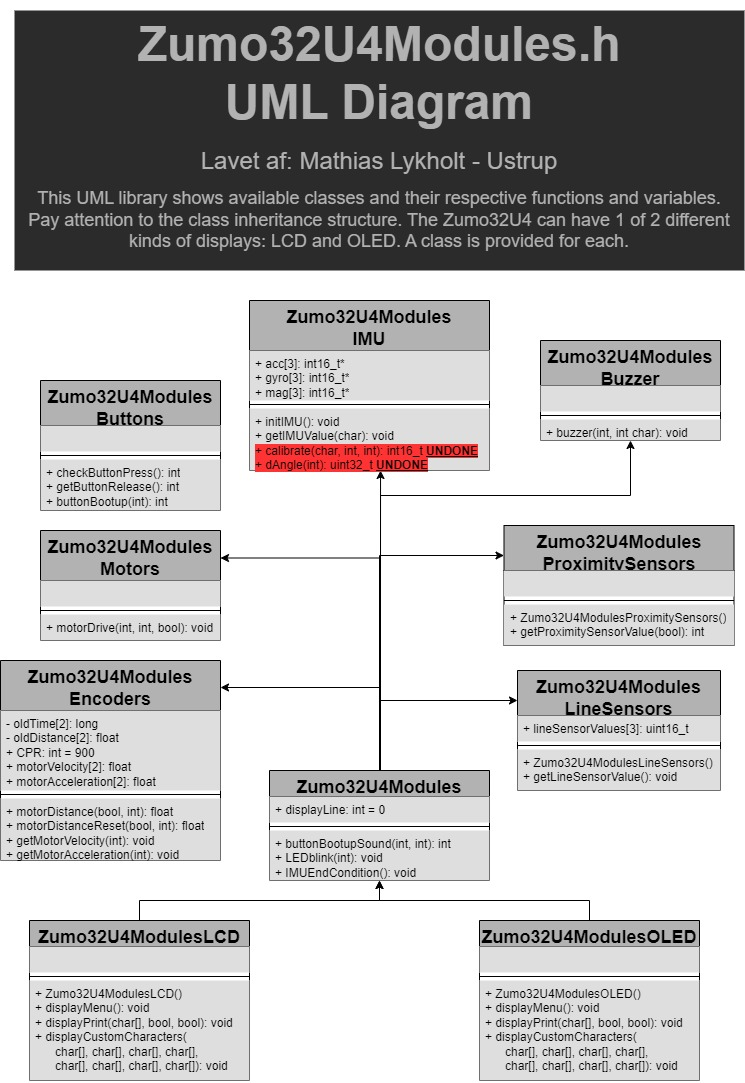
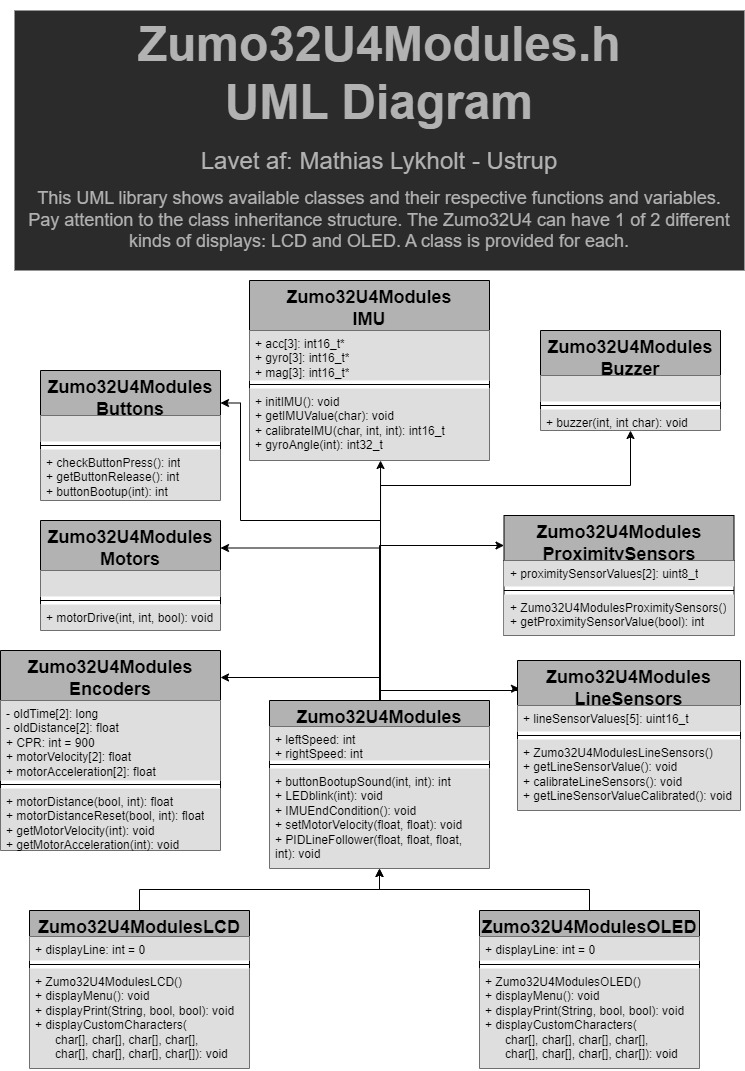
Add files via upload

diff --git a/Zumo32U4Modules.cpp b/Zumo32U4Modules.cpp
@@ -82,16 +82,22 @@ void Zumo32U4ModulesEncoders::getMotorAcceleration() {
   Zumo32U4ModulesEncoders::oldTime[1] = millis(); // Update millis() returns time in milliseconds.
 }
 
-Zumo32U4ModulesLineSensors::Zumo32U4ModulesLineSensors() { Zumo32U4LineSensors::initThreeSensors(); }
+Zumo32U4ModulesLineSensors::Zumo32U4ModulesLineSensors() { Zumo32U4LineSensors::initFiveSensors(); }
 
 void Zumo32U4ModulesLineSensors::getLineSensorValue() { Zumo32U4LineSensors::read(lineSensorValues, QTR_EMITTERS_ON); }
 
+void Zumo32U4ModulesLineSensors::calibrateLineSensors() { Zumo32U4LineSensors::calibrate(QTR_EMITTERS_ON); }
+
+void Zumo32U4ModulesLineSensors::getLineSensorValueCalibrated() { Zumo32U4LineSensors::readCalibrated(lineSensorValues, QTR_EMITTERS_ON); }
+
+//int Zumo32U4ModulesLineSensors::readLineLocation() { Zumo32U4LineSensors::readLine(lineSensorValues, QTR_EMITTERS_ON, false); }
+
 Zumo32U4ModulesProximitySensors::Zumo32U4ModulesProximitySensors() { Zumo32U4ProximitySensors::initThreeSensors(); }
 
-int Zumo32U4ModulesProximitySensors::getProximitySensorValue(bool index) {
+void Zumo32U4ModulesProximitySensors::getProximitySensorValue() {
   Zumo32U4ProximitySensors::read();
-  if (index == true) { return Zumo32U4ProximitySensors::countsFrontWithLeftLeds(); }
-  if (index == false) { return Zumo32U4ProximitySensors::countsFrontWithRightLeds(); }
+  proximitySensorValues[0] = Zumo32U4ProximitySensors::countsFrontWithLeftLeds();
+  proximitySensorValues[1] = Zumo32U4ProximitySensors::countsFrontWithRightLeds();
 }
 
 void Zumo32U4ModulesIMU::initIMU() {
@@ -118,7 +124,7 @@ int16_t Zumo32U4ModulesIMU::getIMUvalue(char m_a_g='_') {
   }
 }
 
-int16_t Zumo32U4ModulesIMU::calibrate(char m_a_g, int index, int iterations=1000) {
+int16_t Zumo32U4ModulesIMU::calibrateIMU(char m_a_g, int index, int iterations=1000) {
   int32_t total = 0; // Sum of read values
   switch(m_a_g) {
     case 'm':
@@ -145,7 +151,7 @@ int16_t Zumo32U4ModulesIMU::calibrate(char m_a_g, int index, int iterations=1000
   return total / iterations; // Average of read values is returned
 }
 
-int32_t Zumo32U4ModulesIMU::dAngle(int index) {
+int32_t Zumo32U4ModulesIMU::gyroAngle(int index) {
   Zumo32U4IMU::readGyro(); // Only gyrometer is needed for Zumo32U4 angle readings
   int16_t turnRate = *gyro[index] - gyroOffset;
   uint16_t m = micros(); // "New time"
@@ -172,16 +178,16 @@ void accelerometerMovement(float v_0, float s_0) {
 }
 */
 
-/*int16_t gyrometerCompas() {
+/*int16_t Zumo32U4ModulesIMU::magCompas() {
 
-  float heading = -1 * (atan2(*zumoBot.mag[0], *zumoBot.mag[1]) * 180) / M_PI;
-  heading += 4.91;
+  float heading = -1 * atan2(*Zumo32U4ModulesIMU::mag[0], *Zumo32U4ModulesIMU::mag[1]) * 180 / M_PI;
+  //heading += 4.91;
   if (heading > 360) { heading = 360; }
   return heading;
-  /*int16_t x = map(*zumoBot.mag[0], -12000, -6000, -400, 400);
-  int16_t y = map(*zumoBot.mag[1], 6000, 12000, -400, 400);
+  int16_t x = map(*Zumo32U4ModulesIMU::mag[0], -12000, -6000, -400, 400);
+  int16_t y = map(*Zumo32U4ModulesIMU::mag[1], 6000, 12000, -400, 400);
 
-  zumoBot.displayPrint((String)x + "\t" + (String)y, true);
+  //zumoBot.displayPrint((String)x + "\t" + (String)y, true);
 
   if (y > 0) {
     return 90 - atan2(x, y) * 180 / PI;
@@ -226,17 +232,57 @@ void Zumo32U4Modules::LEDblink(int interval) {
 }
 
 void Zumo32U4Modules::IMUEndCondition() {
-  if (accDataReady() == false) { // If accelerometer is not initialized:
-    Wire.begin();
-    Zumo32U4IMU::init();          // "Activate" accelerometer a, magnetometer m, gyrometer g på x, y & z-akse
-    Zumo32U4IMU::enableDefault(); // Needed when connected via. USB (don't know why)
-    Serial.println("IMU initialized!");
-  }
   Zumo32U4IMU::readAcc();    // Only accelerometer is needed for readings of Zumo32U4 gravitaional pull
-  if (a.z < 0 || a.z >= 20000) {    // If (Zumo32U4 is turned upside down || lifted up)
+  if (a.z < 0) {    // If (Zumo32U4 is turned upside down)
     Zumo32U4ModulesMotors::setSpeeds(0, 0);   // Motors must stop when program stops
     exit(0); // Stop the program in its entierty
   }
+}
+
+void Zumo32U4Modules::setMotorVelocity(float velocityLeft=0, float velocityRight=0) {
+  Zumo32U4ModulesEncoders::getMotorAcceleration(); // get motor acceleraion also updates motor velocity. 
+  float velocityLeftError = velocityLeft - Zumo32U4ModulesEncoders::motorVelocity[0];
+  float velocityRightError = velocityRight - Zumo32U4ModulesEncoders::motorVelocity[1];
+  leftSpeed += velocityLeftError;
+  rightSpeed += velocityRightError;
+  if (leftSpeed > 400) { leftSpeed = 400; }
+  if (rightSpeed > 400) { rightSpeed = 400; }
+  Zumo32U4ModulesMotors::motorDrive(leftSpeed, rightSpeed);
+}
+
+void Zumo32U4Modules::PIDLineFollower(float kp, float ki, float kd, int speed) {
+  float integral = 0;
+  float error = 0;
+  float lastError = 0;
+
+  Zumo32U4ModulesProximitySensors::getProximitySensorValue(); // Update proximity
+  int proximity = Zumo32U4ModulesProximitySensors::proximitySensorValues[0] + 
+                  Zumo32U4ModulesProximitySensors::proximitySensorValues[1]; // Check if condition met from the get go
+  while (proximity != 12) { // Failsafe 1 in case Zumo32U4 goes haywire
+    Zumo32U4ModulesProximitySensors::getProximitySensorValue(); // Update proximity
+    proximity = Zumo32U4ModulesProximitySensors::proximitySensorValues[0] + 
+                Zumo32U4ModulesProximitySensors::proximitySensorValues[1]; 
+    Zumo32U4ModulesLineSensors::getLineSensorValue();
+    if (lineSensorValues[0] < 300) {  // If left side lineSensor value is low:
+      Zumo32U4Motors::setSpeeds(-60, 200); // Turn left by 90 degrees (roughly speaking)
+      delay(650);
+    }
+    else if (lineSensorValues[4] < 300) { // If right side lineSensor value is low:
+      Zumo32U4Motors::setSpeeds(200, -60); // Turn right by 90 degrees (roughly speaking)
+      delay(650);
+    }
+    error = lineSensorValues[1] - lineSensorValues[3]; // Ideally, the Zumo32U4 will drive in between the (white) line
+    float pFix = error * kp;
+    integral += error;
+    float iFix = integral * ki;
+    int derivative = error - lastError;
+    lastError = error;
+    float dFix = derivative * kd;
+    int correction = pFix + iFix + dFix;
+    Zumo32U4ModulesMotors::motorDrive(speed+correction, speed-correction); // Apply feedback-mechanism to Zumo32U4 motors
+    Zumo32U4Modules::IMUEndCondition(); // Failsafe 2 in case Zumo32U4 goes haywire
+  }
+  Zumo32U4Motors::setSpeeds(0, 0); // Stop Zumo32U4 Motors
 }
 
 Zumo32U4ModulesLCD::Zumo32U4ModulesLCD() {
@@ -265,13 +311,13 @@ void Zumo32U4ModulesLCD::displayMenu() {
 void Zumo32U4ModulesLCD::displayPrint(String input, bool clear=false, bool newLine=true) {
   if (clear==true) {  // Clear display?
     Zumo32U4LCD::clear();
-    Zumo32U4Modules::displayLine = 0;
+    Zumo32U4ModulesLCD::displayLine = 0;
   }
   if (input.length() == 0) { Zumo32U4LCD::print(input[0]); } // If {input} == "\0" or {input} == "", then "\0" is printed to display
   else { Zumo32U4LCD::print(input); }
   if (newLine==true) { // Should the next displayPrint(char input[]) be printed on the next line?
-    Zumo32U4Modules::displayLine++;
-    Zumo32U4LCD::gotoXY(0, Zumo32U4Modules::displayLine);
+    Zumo32U4ModulesLCD::displayLine++;
+    Zumo32U4LCD::gotoXY(0, Zumo32U4ModulesLCD::displayLine);
   }
 }
 
@@ -318,15 +364,15 @@ void Zumo32U4ModulesOLED::displayMenu() {
 void Zumo32U4ModulesOLED::displayPrint(String input, bool clear=false, bool newLine=true) {
   if (clear==true) {  // Clear display?
     Zumo32U4OLED::clear();
-    Zumo32U4Modules::displayLine = 0;
+    Zumo32U4ModulesOLED::displayLine = 0;
   }
 
   if (input.length() == 0) { Zumo32U4OLED::print(input[0]); } // If {input} == "\0" or {input} == "", then "\0" is printed to display
   else { Zumo32U4OLED::print(input); }
 
   if (newLine==true) { // Should the next displayPrint(char input[]) be printed on the next line?
-    Zumo32U4Modules::displayLine++;
-    Zumo32U4OLED::gotoXY(0, Zumo32U4Modules::displayLine);
+    Zumo32U4ModulesOLED::displayLine++;
+    Zumo32U4OLED::gotoXY(0, Zumo32U4ModulesOLED::displayLine);
   }
 }
 

diff --git a/Zumo32U4Modules.h b/Zumo32U4Modules.h
@@ -9,8 +9,8 @@
 
 /*! \brief This class represents the Zumo32U4 buttons A, B & C */
 class Zumo32U4ModulesButtons : protected Zumo32U4ButtonA, 
-                                    protected Zumo32U4ButtonB,
-                                    protected Zumo32U4ButtonC { 
+                               protected Zumo32U4ButtonB,
+                               protected Zumo32U4ButtonC { 
 public: 
 /*! Check button press state.
  *  NONE=0; A=1; B=2; A+B=3; C=4; A+C=5; B+C=6; A+B+C=7; */
@@ -90,13 +90,19 @@ public:
      Class constructor initializes LineSensors from the get go */
 class Zumo32U4ModulesLineSensors : protected Zumo32U4LineSensors {
 public:
-  uint16_t lineSensorValues[3];
+  uint16_t lineSensorValues[5];
 
-  /*! Assume Zumo32U4 has 3 ineSensors */
+  /*! Assume Zumo32U4 has 5 lineSensors */
   Zumo32U4ModulesLineSensors();
 
   /*! Read lineSensor. Afterwards, access these values using lineSensorValues[]. */
   void getLineSensorValue();
+
+  /*! Calibrate lineSensor. Afterwards, the function getLineSensorValueCalibrated() can be executed. */
+  void calibrateLineSensors();
+
+  /*! Calibrate lineSensor. Afterwards, the function getLineSensorValueCalibrated() can be executed. */
+  void getLineSensorValueCalibrated();
 };
 
 #define Zumo32U4ModulesProximitySensors_h
@@ -106,11 +112,13 @@ public:
      Class constructor initializes Protimity Sensors from the get to*/
 class Zumo32U4ModulesProximitySensors : protected Zumo32U4ProximitySensors {
 public:
+  uint8_t proximitySensorValues[2];
+
   /*! Assume Zumo32U4 has 3 Proximity Sensors */
   Zumo32U4ModulesProximitySensors();
 
-  /*! Read proximitySensor. Get right proximitySensor if {index} == false and left if {index} == true */
-  int getProximitySensorValue(bool index);
+  /*! Read proximitySensor. Proximity Sensor values are stored in uint8_t proximitySensorValues[2] */
+  void getProximitySensorValue();
 };
 
 #define Zumo32U4ModulesIMU_h
@@ -140,10 +148,11 @@ public:
   int16_t getIMUvalue(char m_a_g='_');
 
   /*! Needed to get actual angle of Zumo32U4 in setup(). */
-  int16_t calibrate(char m_a_g, int index, int iterations=1000); // EXPERIMENTAL
+  int16_t calibrateIMU(char m_a_g, int index, int iterations=1000);
 
-  /*! After calibrate(char m_a_g, int index, int iterations) has been executed, get actual angle using gyrometer */
-  int32_t dAngle(int index); // EXPERIMENTAL
+  /*! After calibrate(char m_a_g, int index, int iterations) has been executed, get actual angle using gyrometer. 
+   *  Make sure to run this function in a loop without any forced delays like delay() as this will cause errors in angle calculations */
+  int32_t gyroAngle(int index);
 };
 
 #define Zumo32U4Modules_h
@@ -159,7 +168,7 @@ class Zumo32U4Modules : public Zumo32U4ModulesButtons,
                         public Zumo32U4ModulesProximitySensors,
                         public Zumo32U4ModulesIMU {
 public:
-  int displayLine = 0; // Exclusively used for class Zumo32U4ModulesLCD & class Zumo32U4ModulesOLED
+  int leftSpeed=0, rightSpeed=0; // Used for the function setMotorvelocity(float velocityLeft=0, float velocityRight=0)
 
   /*! Wait until either A, B or C has been pressed and released.
    Afterwards, {windup} ms of a "fancy delay" follows.
@@ -174,6 +183,12 @@ public:
 
   /*! End the program if either Zumo is lifted up or turned upside down */
   void IMUEndCondition();
+
+  /*! Make the motors drive at a specific velocity. Makes for a smooth acceleration.
+   * Velocity should be set between 0cm/s (motor stop) and 65cm/s (motor full speed) */
+  void setMotorVelocity(float velocityLeft=0, float velocityRight=0);
+
+  void PIDLineFollower(float P, float I, float D, int speed);
 };
 
 #define Zumo32U4ModulesLCD_h
@@ -183,6 +198,8 @@ public:
  * The LCD-display is limited to 8x2 dimensions, meaning only 16 signs can be displayed once at a time. */
 class Zumo32U4ModulesLCD : public Zumo32U4Modules, protected Zumo32U4LCD {
 public:
+  int displayLine = 0; // Set specific display line if we're feeling fancy
+
   /*! Equivalent to a "Hello World!" displayed on the LCD. */
   Zumo32U4ModulesLCD();
 
@@ -207,6 +224,8 @@ public:
  * Furthermore, the OLED-display is capable of making vfx graphics [WORK IN PROGRESS] */
 class Zumo32U4ModulesOLED : public Zumo32U4Modules, protected Zumo32U4OLED {
 public:
+  int displayLine = 0; // Set specific display line if we're feeling fancy
+
   /*! Equivalent to a "Hello World!" displayed on the LCD. */
   Zumo32U4ModulesOLED();
 
@@ -223,28 +242,13 @@ public:
                                char custom5[]={}, char custom6[]={}, char custom7[]={}, char custom8[]={});
 };
 
-// This character is a back arrow pointing to the left.
-const char backArrow[] PROGMEM = {0, 2, 1, 5, 9, 30, 8, 4};
-
-// This character is a back arrow pointing to the right.
-const char backArrowReverse[] PROGMEM = {0, 8, 16, 20, 18, 15, 2, 4};
-
-// This character is two chevrons pointing up.
-const char forwardArrows[] PROGMEM = {0, 4, 10, 17, 4, 10, 17, 0};
-
-// This character is two chevrons pointing down.
-const char reverseArrows[] PROGMEM = {0, 17, 10, 4, 17, 10, 4, 0};
-
-// This character is two solid arrows pointing up.
-const char forwardArrowsSolid[] PROGMEM = {0, 4, 14, 31, 4, 14, 31, 0};
-
-// This character is two solid arrows pointing down.
-const char reverseArrowsSolid[] PROGMEM = {0, 31, 14, 4, 31, 14, 4, 0};
-
-// This character is a solid arrow pointing to the right.
-const char rightArrow[] PROGMEM = {8, 12, 14, 15, 14, 12, 8, 0};
-
-// This character is a solid arrow pointing to the left.
-const char leftArrow[] PROGMEM = {2, 6, 14, 30, 14, 6, 2, 0};
+const char backArrow[] PROGMEM = {0, 2, 1, 5, 9, 30, 8, 4}; // This character is a back arrow pointing to the left.
+const char backArrowReverse[] PROGMEM = {0, 8, 16, 20, 18, 15, 2, 4}; // This character is a back arrow pointing to the right.
+const char forwardArrows[] PROGMEM = {0, 4, 10, 17, 4, 10, 17, 0}; // This character is two chevrons pointing up.
+const char reverseArrows[] PROGMEM = {0, 17, 10, 4, 17, 10, 4, 0}; // This character is two chevrons pointing down.
+const char forwardArrowsSolid[] PROGMEM = {0, 4, 14, 31, 4, 14, 31, 0}; // This character is two solid arrows pointing up.
+const char reverseArrowsSolid[] PROGMEM = {0, 31, 14, 4, 31, 14, 4, 0}; // This character is two solid arrows pointing down.
+const char rightArrow[] PROGMEM = {8, 12, 14, 15, 14, 12, 8, 0}; // This character is a solid arrow pointing to the right.
+const char leftArrow[] PROGMEM = {2, 6, 14, 30, 14, 6, 2, 0}; // This character is a solid arrow pointing to the left.
 
 #endif // This line always comes last in a header file
